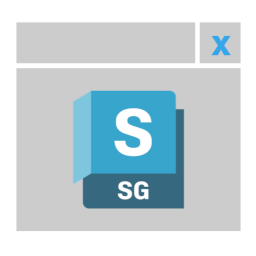
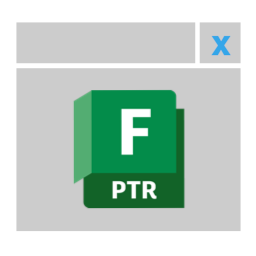
SG-34301 - Rebranding (#17)
* Change all the shotgrid/shotgun occurrences in the repository.

* Update logos.

* Update text occurrences.

* Update docs/html/_modules/index.html

* Update docs/html/edl.html

* Update docs/html/genindex.html

* Update docs/html/index.html

* Update docs/html/search.html

* Update docs/html/timecode.html

* Update text.

---------

Changed region(s): [[0.2812, 0.3438, 0.75, 0.8438]]

diff --git a/docs/html/_modules/index.html b/docs/html/_modules/index.html
@@ -114,10 +114,10 @@
 
     <b>tk-framework-editorial</b> v1.4.0.<br>
 
-        This documentation is part of the ShotGrid Pipeline Toolkit.
+        This documentation is part of the Flow Production Tracking.
 
     For more information, please visit
-    <a class=custom_post_menu href='https://developer.shotgridsoftware.com'>ShotGrid Support</a>.
+    <a class=custom_post_menu href='https://help.autodesk.com/view/SGDEV/ENU/'>Flow Production Tracking Support</a>.
     The code associated with this documentation can be found
     <a class=custom_post_menu href='https://github.com/shotgunsoftware/tk-framework-editorial'>here</a>.
 

diff --git a/docs/html/edl.html b/docs/html/edl.html
@@ -122,10 +122,10 @@
 
     <b>tk-framework-editorial</b> v1.4.0.<br>
 
-        This documentation is part of the ShotGrid Pipeline Toolkit.
+        This documentation is part of the Flow Production Tracking.
 
     For more information, please visit
-    <a class=custom_post_menu href='https://developer.shotgridsoftware.com'>ShotGrid Support</a>.
+    <a class=custom_post_menu href='https://help.autodesk.com/view/SGDEV/ENU/'>Flow Production Tracking Support</a>.
     The code associated with this documentation can be found
     <a class=custom_post_menu href='https://github.com/shotgunsoftware/tk-framework-editorial'>here</a>.
 

diff --git a/docs/html/genindex.html b/docs/html/genindex.html
@@ -115,10 +115,10 @@
 
     <b>tk-framework-editorial</b> v1.4.0.<br>
 
-        This documentation is part of the ShotGrid Pipeline Toolkit.
+        This documentation is part of the Flow Production Tracking.
 
     For more information, please visit
-    <a class=custom_post_menu href='https://developer.shotgridsoftware.com'>ShotGrid Support</a>.
+    <a class=custom_post_menu href='https://help.autodesk.com/view/SGDEV/ENU/'>Flow Production Tracking Support</a>.
     The code associated with this documentation can be found
     <a class=custom_post_menu href='https://github.com/shotgunsoftware/tk-framework-editorial'>here</a>.
 

diff --git a/docs/html/index.html b/docs/html/index.html
@@ -115,10 +115,10 @@
 
     <b>tk-framework-editorial</b> v1.4.0.<br>
 
-        This documentation is part of the ShotGrid Pipeline Toolkit.
+        This documentation is part of the Flow Production Tracking.
 
     For more information, please visit
-    <a class=custom_post_menu href='https://developer.shotgridsoftware.com'>ShotGrid Support</a>.
+    <a class=custom_post_menu href='https://help.autodesk.com/view/SGDEV/ENU/'>Flow Production Tracking Support</a>.
     The code associated with this documentation can be found
     <a class=custom_post_menu href='https://github.com/shotgunsoftware/tk-framework-editorial'>here</a>.
 

diff --git a/docs/html/search.html b/docs/html/search.html
@@ -114,10 +114,10 @@
 
     <b>tk-framework-editorial</b> v1.4.0.<br>
 
-        This documentation is part of the ShotGrid Pipeline Toolkit.
+        This documentation is part of the Flow Production Tracking.
 
     For more information, please visit
-    <a class=custom_post_menu href='https://developer.shotgridsoftware.com'>ShotGrid Support</a>.
+    <a class=custom_post_menu href='https://help.autodesk.com/view/SGDEV/ENU/'>Flow Production Tracking Support</a>.
     The code associated with this documentation can be found
     <a class=custom_post_menu href='https://github.com/shotgunsoftware/tk-framework-editorial'>here</a>.
 

diff --git a/docs/html/timecode.html b/docs/html/timecode.html
@@ -118,10 +118,10 @@
 
     <b>tk-framework-editorial</b> v1.4.0.<br>
 
-        This documentation is part of the ShotGrid Pipeline Toolkit.
+        This documentation is part of the Flow Production Tracking.
 
     For more information, please visit
-    <a class=custom_post_menu href='https://developer.shotgridsoftware.com'>ShotGrid Support</a>.
+    <a class=custom_post_menu href='https://help.autodesk.com/view/SGDEV/ENU/'>Flow Production Tracking Support</a>.
     The code associated with this documentation can be found
     <a class=custom_post_menu href='https://github.com/shotgunsoftware/tk-framework-editorial'>here</a>.
 

diff --git a/docs/html/_modules/edl/edl.html b/docs/html/_modules/edl/edl.html
@@ -115,10 +115,10 @@
 
     <b>tk-framework-editorial</b> v1.4.0.<br>
 
-        This documentation is part of the ShotGrid Pipeline Toolkit.
+        This documentation is part of the Flow Production Tracking.
 
     For more information, please visit
-    <a class=custom_post_menu href='https://developer.shotgridsoftware.com'>ShotGrid Support</a>.
+    <a class=custom_post_menu href='https://developer.shotgridsoftware.com'>Flow Production Tracking Support</a>.
     The code associated with this documentation can be found
     <a class=custom_post_menu href='https://github.com/shotgunsoftware/tk-framework-editorial'>here</a>.
 

diff --git a/docs/html/_modules/edl/timecode.html b/docs/html/_modules/edl/timecode.html
@@ -115,10 +115,10 @@
 
     <b>tk-framework-editorial</b> v1.4.0.<br>
 
-        This documentation is part of the ShotGrid Pipeline Toolkit.
+        This documentation is part of the Flow Production Tracking.
 
     For more information, please visit
-    <a class=custom_post_menu href='https://developer.shotgridsoftware.com'>ShotGrid Support</a>.
+    <a class=custom_post_menu href='https://developer.shotgridsoftware.com'>Flow Production Tracking Support</a>.
     The code associated with this documentation can be found
     <a class=custom_post_menu href='https://github.com/shotgunsoftware/tk-framework-editorial'>here</a>.
 

diff --git a/SECURITY.md b/SECURITY.md
@@ -4,18 +4,18 @@
 
 At Autodesk, we know that the security of your data is critical to your studio’s
 operation.
-As the industry shifts to the cloud, ShotGrid knows that security and service
+As the industry shifts to the cloud, Flow Production Tracking knows that security and service
 models are more important than ever.
 
 The confidentiality, integrity, and availability of your content is at the top
 of our priority list.
-Not only do we have a team of ShotGrid engineers dedicated to platform security
+Not only do we have a team of Flow Production Tracking engineers dedicated to platform security
 and performance, we are also backed by Autodesk’s security team, also invests
 heavily in the security for broad range of industries and customers.
 We constantly reassess, develop, and improve our risk management program because
 we know that the landscape of security is ever-changing.
 
-If you believe you have found a security vulnerability in any ShotGrid-owned
+If you believe you have found a security vulnerability in any Flow Production Tracking-owned
 repository, please report it to us as described below.
 
 
@@ -32,4 +32,4 @@ configurations, reproduction steps, exploit code, impact, etc.
 
 ## Additional Information
 
-Please check out the [ShotGrid Security White Paper](https://help.autodesk.com/view/SGSUB/ENU/?guid=SG_Administrator_ar_general_security_ar_security_white_paper_html).
+Please check out the [Flow Production Tracking Security White Paper](https://help.autodesk.com/view/SGSUB/ENU/?guid=SG_Administrator_ar_general_security_ar_security_white_paper_html).

diff --git a/README.md b/README.md
@@ -1,11 +1,11 @@
 [![Code style: black](https://img.shields.io/badge/code%20style-black-000000.svg)](https://github.com/psf/black)
 
 ## Documentation
-This repository is a part of the ShotGrid Pipeline Toolkit.
+This repository is a part of the Flow Production Tracking Toolkit.
 
 - For more information about this framework and for release notes, *see the wiki section*.
 - For general information and documentation, click here: https://developer.shotgridsoftware.com/d587be80/?title=Integrations+User+Guide
-- For information about ShotGrid in general, click here: https://www.shotgridsoftware.com/integrations
+- For information about Flow Production Tracking in general, click here: https://www.shotgridsoftware.com/integrations
 
 ## Using this framework in your Setup
 All the frameworks that are part of our standard framework suite are pushed to our App Store.
